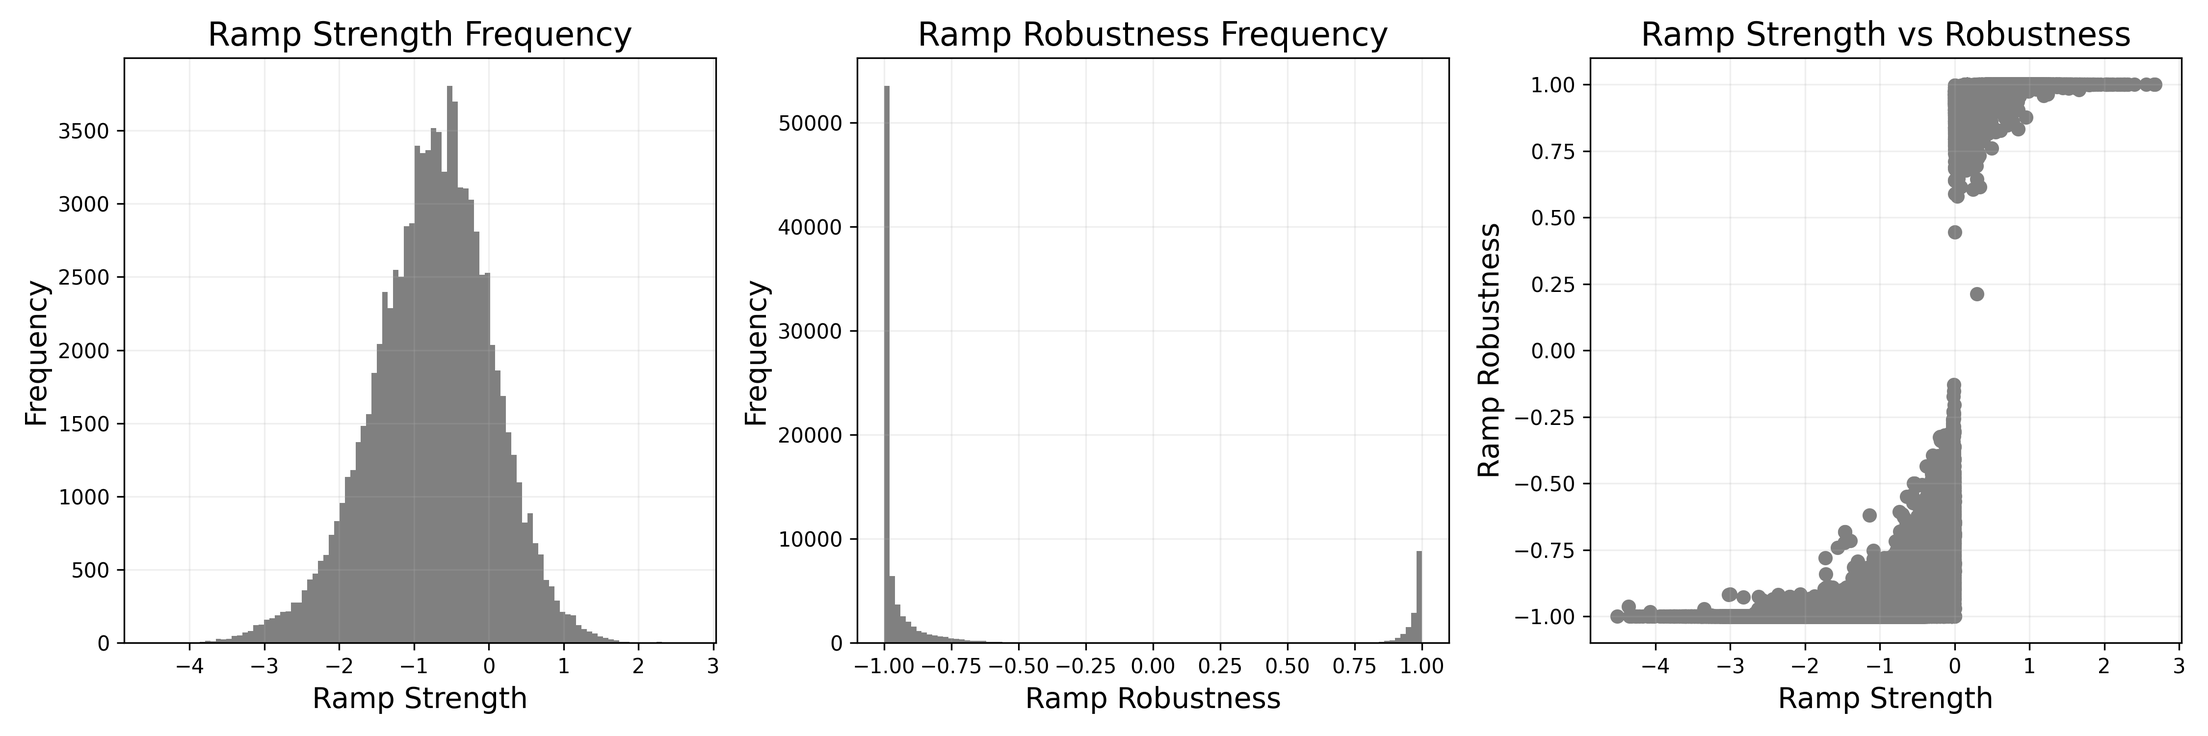
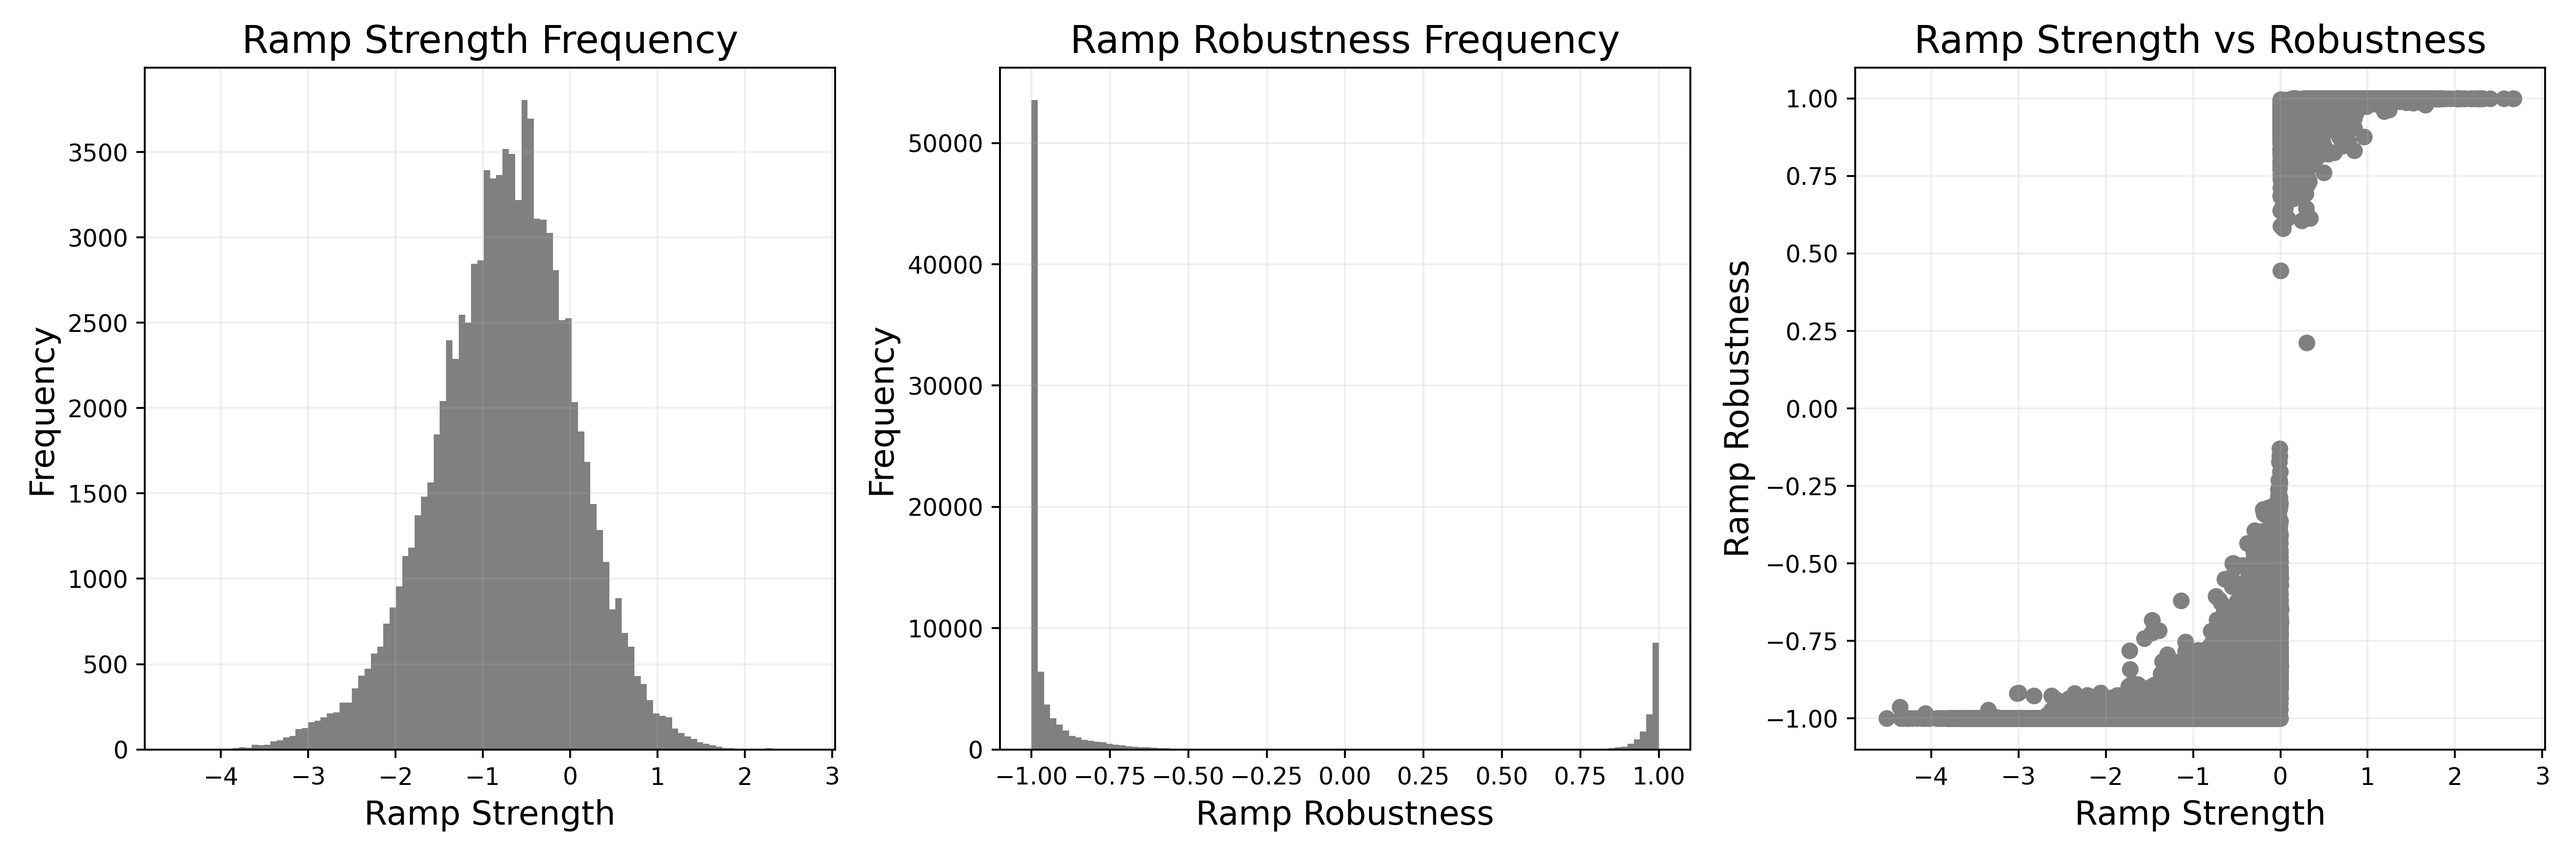
Updated dpi of all figures to 350

diff --git a/scripts/10_analyze_scores.py b/scripts/10_analyze_scores.py
@@ -29,7 +29,7 @@ plt.xlabel("Ramp Strength", fontsize=14)
 plt.ylabel("Frequency", fontsize=14)
 plt.grid(alpha=0.2)
 plt.tight_layout()
-plt.savefig("../outputs/scores/ramp_strength_frequency.png", dpi=300)
+plt.savefig("../outputs/scores/ramp_strength_frequency.png", dpi=350)
 
 # Plot a ramp robustness histogram
 plt.figure(figsize=(5, 5))
@@ -39,7 +39,7 @@ plt.xlabel("Ramp Robustness", fontsize=14)
 plt.ylabel("Frequency", fontsize=14)
 plt.grid(alpha=0.2)
 plt.tight_layout()
-plt.savefig("../outputs/scores/ramp_robustness_frequency.png", dpi=300)
+plt.savefig("../outputs/scores/ramp_robustness_frequency.png", dpi=350)
 
 # Plot a scatter plot of ramp strength vs robustness
 plt.figure(figsize=(5, 5))
@@ -49,7 +49,7 @@ plt.xlabel("Ramp Strength", fontsize=14)
 plt.ylabel("Ramp Robustness", fontsize=14)
 plt.grid(alpha=0.2)
 plt.tight_layout()
-plt.savefig("../outputs/scores/ramp_strength_vs_robustness.png", dpi=300)
+plt.savefig("../outputs/scores/ramp_strength_vs_robustness.png", dpi=350)
 
 # Plot all three in one figure
 fig, axs = plt.subplots(1, 3, figsize=(15, 5))
@@ -69,7 +69,7 @@ axs[2].set_xlabel("Ramp Strength", fontsize=14)
 axs[2].set_ylabel("Ramp Robustness", fontsize=14)
 axs[2].grid(alpha=0.2)
 plt.tight_layout()
-plt.savefig("../outputs/scores/ramp_strength_robustness_combined.png", dpi=300)
+plt.savefig("../outputs/scores/ramp_strength_robustness_combined.png", dpi=350)
 plt.close()
 
 print("Plots saved to ../outputs/scores/")

diff --git a/scripts/8_process_benchmark2_data.py b/scripts/8_process_benchmark2_data.py
@@ -42,7 +42,7 @@ def plot_data(species_id_to_data, out_path, type, mean_label):
     plt.legend()
     plt.grid(True, which="both", ls="--", linewidth=0.1)
     plt.tight_layout()
-    plt.savefig(out_path, dpi=300)
+    plt.savefig(out_path, dpi=350)
     plt.close()
     print(f"Plot saved to {out_path}")
 
@@ -71,7 +71,6 @@ def plot_data2(species_id_to_data, out_path, mean_label):
     ax1.plot(sorted(num_seqs), p2(sorted(num_seqs)), "--", color="#56B4E9")
     ax1.set_ylim(top=max(max(mean_time1), max(mean_time2)) * 1.1)
     ax1.set_xscale("log")
-    # ax1.set_xlabel("Number of Sequences (Log Scale)", fontsize=14)
     ax1.set_ylabel("Time (Minutes)", fontsize=14)
     ax1.set_title(f"{mean_label}", fontsize=16)
     ax1.legend()
@@ -89,12 +88,10 @@ def plot_data2(species_id_to_data, out_path, mean_label):
     ax2.set_xscale("log")
     ax2.set_xlabel("Number of Sequences (Log Scale)", fontsize=14)
     ax2.set_ylabel("Memory (GB)", fontsize=14)
-    # ax2.set_title(f"Memory - {mean_label}", fontsize=16)
-    # ax2.legend()
     ax2.grid(True, which="both", ls="--", linewidth=0.1)
 
     plt.tight_layout()
-    plt.savefig(out_path, dpi=300)
+    plt.savefig(out_path, dpi=350)
     plt.close()
     print(f"Plot saved to {out_path}")
 

diff --git a/scripts/10_plot_vulnerable_sequence_scores_mammalia.py b/scripts/10_plot_vulnerable_sequence_scores_mammalia.py
@@ -206,7 +206,7 @@ if __name__ == "__main__":
         plt.ylim(-1.05, 1.05)
         plt.grid(True, which='both', linestyle='--', linewidth=0.2, )
         plt.tight_layout()
-        plt.savefig(fig_path, dpi=300)
+        plt.savefig(fig_path, dpi=350)
         write_and_log(f"Plot saved as {fig_path}", logf)
         write_and_log(f"", logf)
 
@@ -234,7 +234,7 @@ if __name__ == "__main__":
         plt.legend()
         plt.grid(True, which='both', linestyle='--', linewidth=0.2)
         plt.tight_layout()
-        plt.savefig(strength_hist_path, dpi=300)
+        plt.savefig(strength_hist_path, dpi=350)
         write_and_log(f"Histogram saved as {strength_hist_path}", logf)  
         write_and_log(f"", logf)
 
@@ -262,7 +262,7 @@ if __name__ == "__main__":
         plt.legend()
         plt.grid(True, which='both', linestyle='--', linewidth=0.2)
         plt.tight_layout()
-        plt.savefig(robustness_hist_path, dpi=300)
+        plt.savefig(robustness_hist_path, dpi=350)
         write_and_log(f"Histogram saved as {robustness_hist_path}", logf)
         write_and_log(f"", logf)
         

diff --git a/scripts/6.2_explain_unexplained_differences.py b/scripts/6.2_explain_unexplained_differences.py
@@ -86,7 +86,7 @@ def plot_window_means(window_means1, window_means2, header, species_id, fig_path
     plt.ylabel("Window Mean")
     plt.title(f"Window Means for {header} ({species_id})")
     plt.legend()
-    plt.savefig(fig_path)
+    plt.savefig(fig_path, dpi=350)
     print(f"\t\tFigure saved")
     plt.close()
 

diff --git a/scripts/other-figures/hypothetical_plots.py b/scripts/other-figures/hypothetical_plots.py
@@ -55,7 +55,7 @@ def createPlotsSideBySide(yPoints1, yPoints2, plotPath):
                     yerr=[(ramp_strength_score2*-1 - 0.02) / 2], color='black', capsize=5)
 
     plt.tight_layout()
-    plt.savefig(plotPath, dpi=300)
+    plt.savefig(plotPath, dpi=350)
 
     print(f"Plots saved as {plotPath}")
 

diff --git a/scripts/plot_window_means/plot_window_mean_speeds.py b/scripts/plot_window_means/plot_window_mean_speeds.py
@@ -89,6 +89,6 @@ if __name__ == "__main__":
     plt.title(f"Ribosome Translation Efficiency in {geneName}")
     plt.legend(loc='lower right')
     plt.tight_layout()
-    plt.savefig(figPath, dpi=300)
+    plt.savefig(figPath, dpi=350)
 
     print("done.")

diff --git a/scripts/6.3_visualize_diffs.py b/scripts/6.3_visualize_diffs.py
@@ -49,5 +49,5 @@ ax2.axis('equal')
 ax2.set_title("Difference Reasons")
 plt.tight_layout()
 # plt.show()
-plt.savefig(outpath)
+plt.savefig(outpath, dpi=350)
 print(f"Figure saved to {outpath}")

diff --git a/README.md b/README.md
@@ -11,7 +11,7 @@ The following are the figures in the paper and scripts used to generate them:
 * [Supplementary Figure 4](./outputs/benchmark1_differences.png) --- [Supplementary Figure 4 Script](6.3_visualize_diffs.py)
 * [Supplementary Figure 5](./scripts/other-figures/hypothetical_plots.png) --- [Supplementary Figure 5 Script](./scripts/other-figures/hypothetical_plots.py)
 * [Supplementary Figure 6](./outputs/scores/ramp_strength_robustness_combined.png) --- [Supplementary Figure 6 Script](./scripts/10_analyze_scores.py)
-* [Supplementary Figure 7](./outputs/scores/vulnerable_sequence_scores_mammalia.png) --- [Supplementary Figure 7 Script](10_plot_vulnerable_sequence_scores_mammalia.py)
+* [Supplementary Figure 7](./outputs/scores/vulnerable_sequence_scores_mammalia.png) --- [Supplementary Figure 7 Script](./scripts/10_plot_vulnerable_sequence_scores_mammalia.py)
 
 # Links
 ExtRamp 2.0 Paper- coming soon!\
@@ -162,7 +162,7 @@ sbatch 9_windowmeans_benchmark.sh
 mkdir -p ../outputs/scores/slurm
 sbatch 10_scores_benchmark.sh
 ```
-These scores are then analyzed by [10_analyze_scores.py](./scripts/10_analyze_scores.py), which plots distributions of ramp strength and ramp robustness scores for *Homo sapiens*. It also plots ramp strength against ramp robustness for *Homo sapiens*, showing that they are highly coorelated, but not the same. These plots are saved to the [scores output folder](./outputs/scores/). [](./outputs/scores/ramp_strength_robustness_combined.png) is Supplementary Figure 5.
+These scores are then analyzed by [10_analyze_scores.py](./scripts/10_analyze_scores.py), which plots distributions of ramp strength and ramp robustness scores for *Homo sapiens*. It also plots ramp strength against ramp robustness for *Homo sapiens*, showing that they are highly coorelated, but not the same. These plots are saved to the [scores output folder](./outputs/scores/). [ramp_strength_robustness_combined.png](./outputs/scores/ramp_strength_robustness_combined.png) is Supplementary Figure 5.
 ```
 python 10_analyze_scores.py
 ```
@@ -170,6 +170,9 @@ python 10_analyze_scores.py
 [10_plot_vulnerable_sequence_scores_mammalia.py](./scripts/10_plot_vulnerable_sequence_scores_mammalia.py) creates plots similar to [10_analyze_scores.py](./scripts/10_analyze_scores.py), except that it plots scores for all mammalian sequences in the dataset instead. The graphs compare the scores for the sequences whose ramp status changed between ExtRamp versions to those that did not.\
 In the [ramp strength vs ramp robustness score plot](./outputs/scores/vulnerable_sequence_scores_mammalia.png), Supplementary Figure 6, blue points are sequences that didn't change status, red points are sequences that changed status because of the last window mean exclusion bug, and yellow points are sequences that changed status due to differences in rounding between ExtRamp versions.\
 In the [strength histogram](./outputs/scores/vulnerable_sequence_strength_histogram_mammalia.png) and [robustness histogram](./outputs/scores/vulnerable_sequence_robustness_histogram_mammalia.png) plots, the blue distribution represents the sequences that did not change ramp status between versions while the red distribition represents the sequences that did change ramp status between versions.
+```
+python 10_plot_vulnerable_sequence_scores_mammalia.py
+```
 
 # Hypothetical Plot
 [hypothetical_plots.py](./scripts/other-figures/hypothetical_plots.py) plots [hypothetical_plots.png](./scripts/other-figures/hypothetical_plots.png) which is Supplementary Figure 4. It is used to help explain how ramp strength and ramp robustness scores are calculated.
